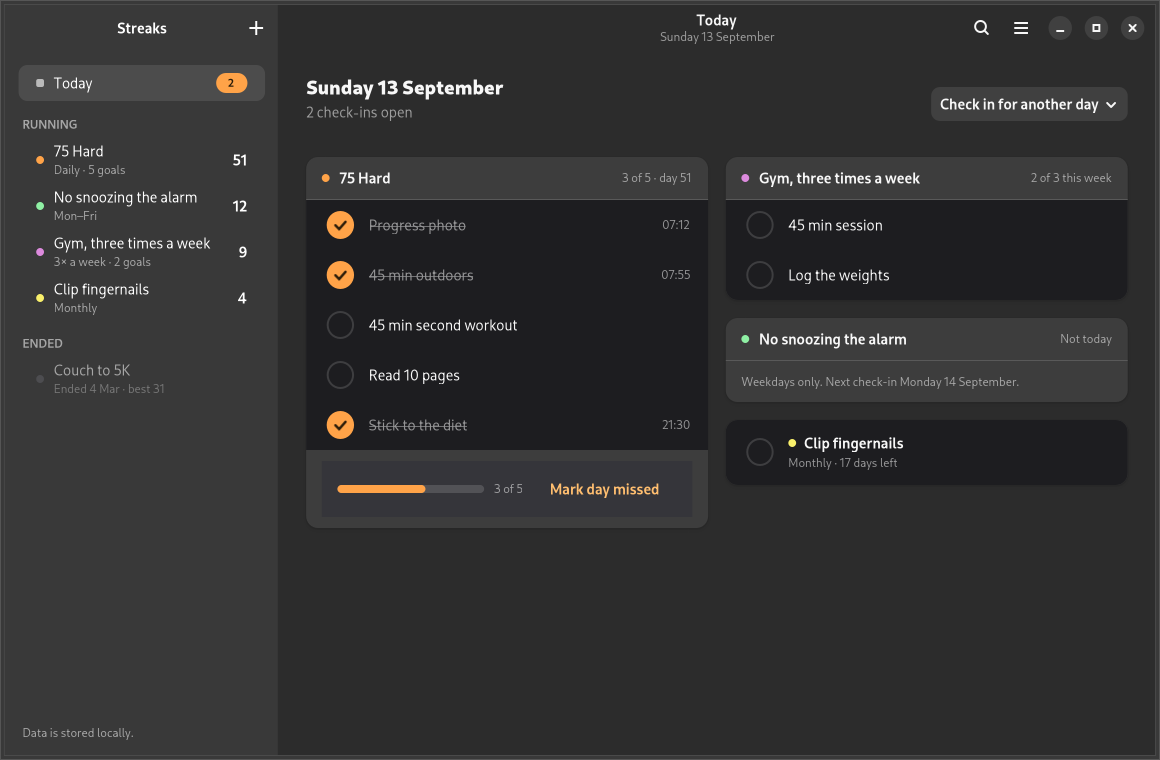
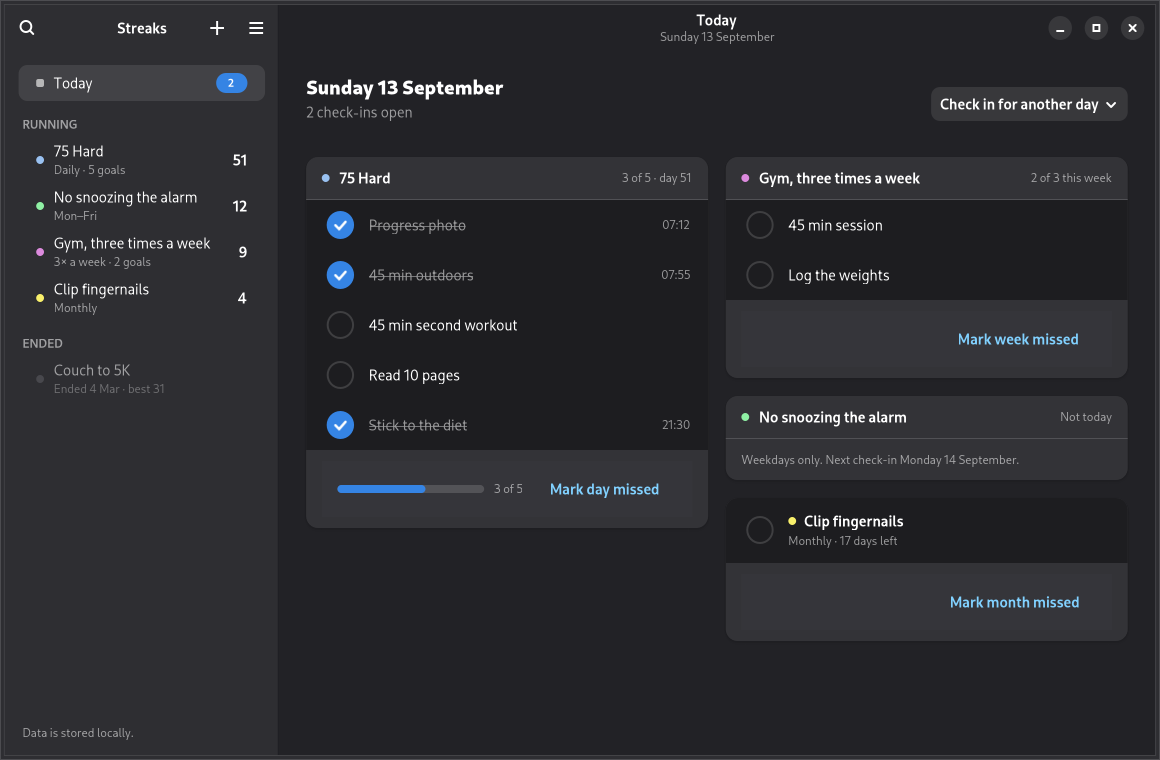
fix: README, screenshots and spec reflect the system accent; resolve() skips the palette copy

diff --git a/src/streaks/theme.py b/src/streaks/theme.py
@@ -73,12 +73,17 @@ def _palette_for(accent_hex: str, dark: bool) -> dict[str, str]:
     return palette
 
 
-def chart_palette(accent: Gdk.RGBA, dark: bool) -> dict[str, str]:
-    """Token -> colour for every chart token, with the ramp derived from ``accent``."""
+def _cached_palette(accent: Gdk.RGBA, dark: bool) -> dict[str, str]:
+    """The shared cached palette for ``accent``; callers must not mutate it."""
     accent_hex = "#{:02x}{:02x}{:02x}".format(
         *(int(channel * 255 + 0.5) for channel in (accent.red, accent.green, accent.blue))
     )
-    return dict(_palette_for(accent_hex, dark))
+    return _palette_for(accent_hex, dark)
+
+
+def chart_palette(accent: Gdk.RGBA, dark: bool) -> dict[str, str]:
+    """Token -> colour for every chart token, with the ramp derived from ``accent``."""
+    return dict(_cached_palette(accent, dark))
 
 
 def accent_rgba() -> Gdk.RGBA:
@@ -106,7 +111,7 @@ def resolve(token: str) -> str:
 
     Anything that is not a known token is returned untouched, so plain hex still works.
     """
-    return chart_palette(accent_rgba(), is_dark()).get(token, token)
+    return _cached_palette(accent_rgba(), is_dark()).get(token, token)
 
 
 def colour_class(colour: str) -> str:

diff --git a/docs/design-spec.md b/docs/design-spec.md
@@ -160,7 +160,7 @@ column that currently has fewer rows (fixture: 75 Hard left; Gym, No snoozing, C
   `#c0bfbc` border; checked: accent bg, white ✓) — use `Gtk.CheckButton` with `selection-mode` style — label 13.5;
   when done: label at 50 % with strike-through, plus right caption with time done `HH:MM` (11 at 38 %).
 - Footer (padding 11 16, bg `#fcfcfc`, gap 10): `Gtk.ProgressBar` (6px, radius 3, track `#e6e4e1`, fill accent),
-  caption "3 of 5", flat link-styled button "Mark day missed" (12.5, `#1c71d8`). Footer only for daily/weekday cards
+  caption "3 of 5", flat link-styled button "Mark day missed" (12.5, accent). Footer only for daily/weekday cards
   with >1 goal; single-goal cards have no footer.
 
 **Single-goal card** (a streak with exactly one active goal, when due): one row, padding 12 16, gap 12. A 24×24 check box (`selection-mode`), then a vertical box: [8×8 colour dot, gap 8, name bold 14 (`heading`)] over a subtitle caption 11.5 at 50 % (margin-top 2). There's no header separator and no footer. Subtitle `"{period} · {status}"`, where status is `"done {HH:MM}"` when ticked today, otherwise daily/weekdays `"day {k}"`, n_per_week `"{done} of {N} this week"`, monthly `"{n} days left"` (`"done this month"` once the month is done). When ticked, the name gets `strike` + `dim-label`. Activating the row toggles the check. A weekday streak that isn't due today keeps the "Not today" card. A goal removed mid-period still counts for that period, so a streak collapsed to one goal shows its multi card until the period ends.
@@ -212,7 +212,7 @@ An ended streak's first tile reads "days, last run". Unconfirmed days show only 
   "no check-in yet — unconfirmed", "missed — run ended", "upcoming".
 - Legend (margin-top 14, gap 16): 11×11 radius 3 squares + 11px captions: full accent "all five" (word for goal count;
   "all {n}" → "all five", "done" when 1 goal), accent × 0.5 "some", outlined "unconfirmed", grey with red border "missed". Spacer.
-  Right: link button 12 `#1c71d8` "4 days unconfirmed — catch up" (hidden when 0) → Catch-up dialog.
+  Right: link button 12 accent "4 days unconfirmed — catch up" (hidden when 0) → Catch-up dialog.
 
 **Lower grid** (columns 1.1fr / 1fr, gap 18):
 - **Per goal, all time** card: header row padding 12 16 bold 13.5. Rows (padding 10 16): goal name 13 (ellipsized),

diff --git a/README.md b/README.md
@@ -31,7 +31,7 @@ The philosophy behind Streaks is that **you know** if you're sticking to your ha
 | ![Streak history](docs/screenshots/streak.png) Streak history — stats, heatmap, per-goal bars | ![New streak](docs/screenshots/new-streak.png) New/Edit streak dialog — single goal |
 | ![New streak, multi-goal](docs/screenshots/new-streak-goals.png) New/Edit streak dialog — "Add more goals" | ![Catch up](docs/screenshots/catch-up.png) Catch-up dialog |
 | ![Preferences](docs/screenshots/preferences.png) Preferences | ![Edit streak, multi-goal](docs/screenshots/edit-streak-goals.png) Editing a streak into a checklist |
-| ![Today, dark](docs/screenshots/dark/today.png) Dark style — amber accent | ![Streak history, dark](docs/screenshots/dark/streak.png) Dark style — amber chart scale |
+| ![Today, dark](docs/screenshots/dark/today.png) Dark style | ![Streak history, dark](docs/screenshots/dark/streak.png) Dark style — chart in the system accent |
 
 More in [`docs/screenshots/`](docs/screenshots/).
 
